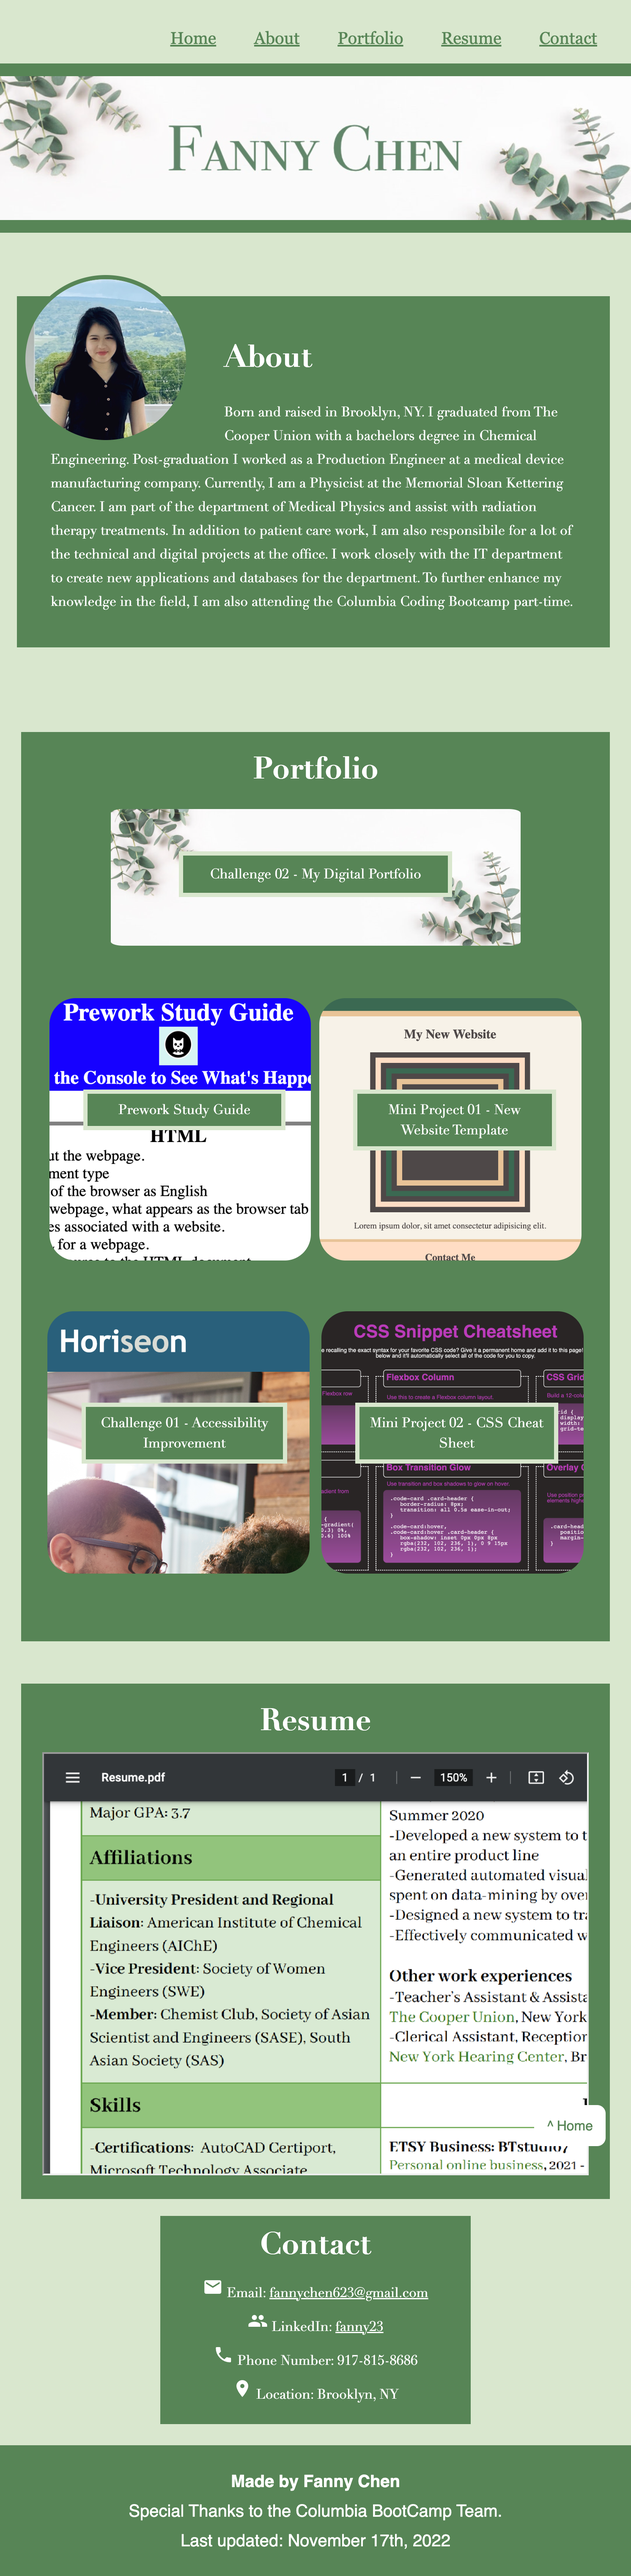
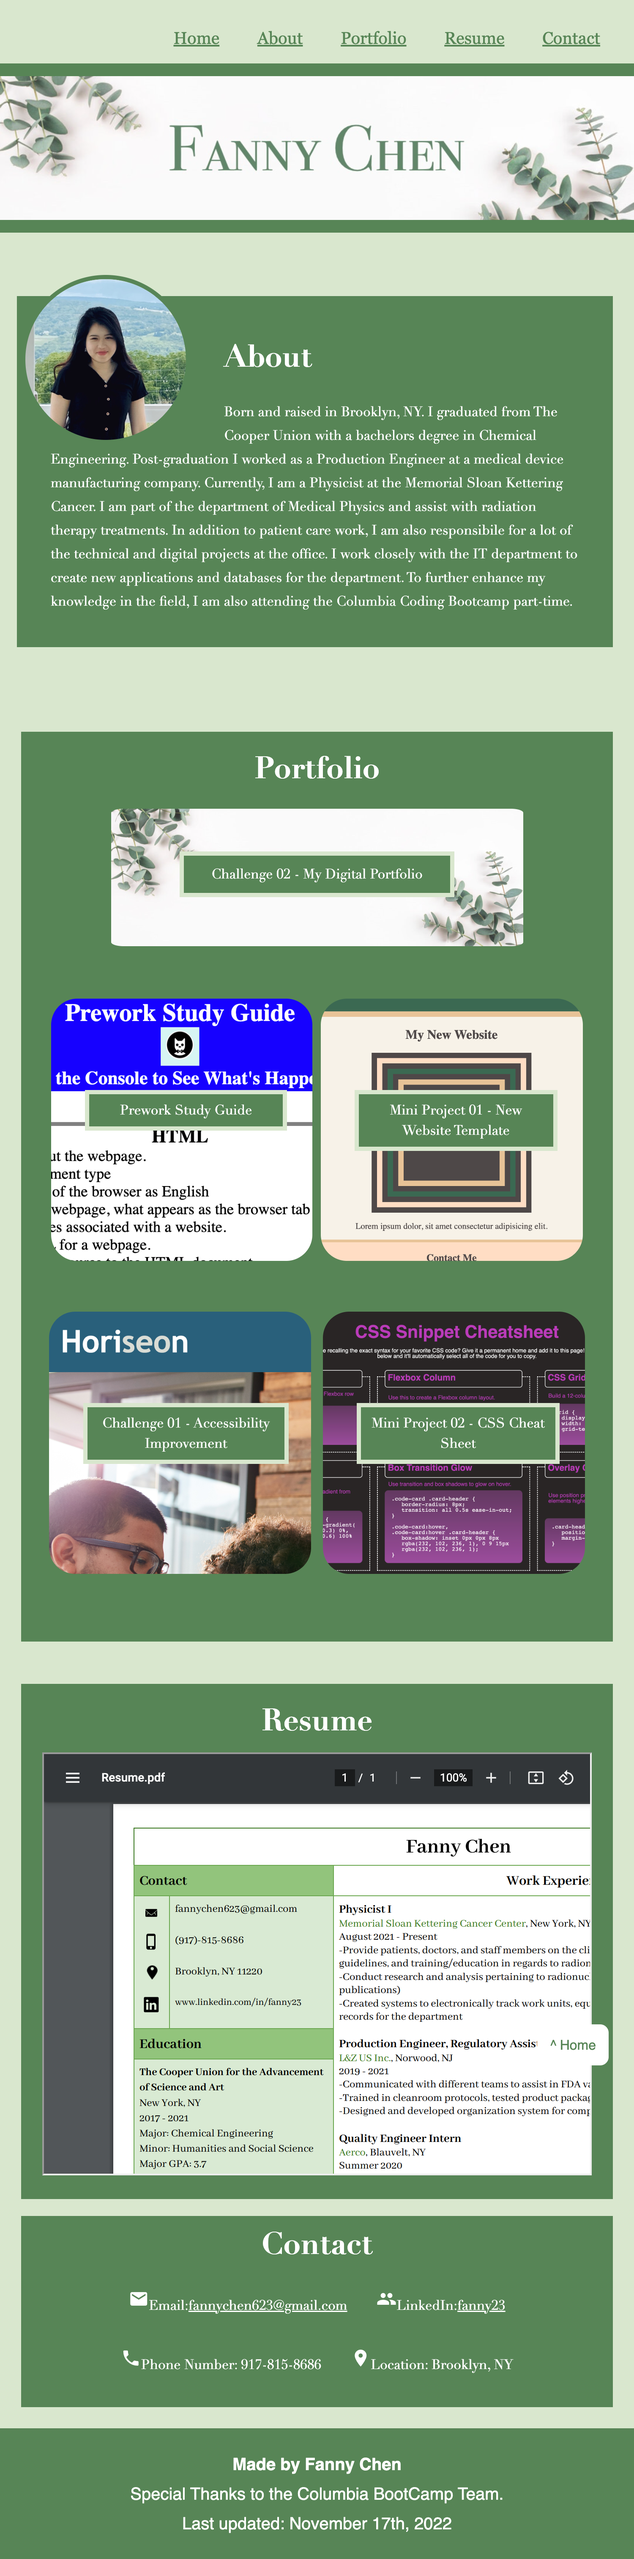
added deployed link to html and README

diff --git a/index.html b/index.html
@@ -44,7 +44,7 @@
           <h1>Portfolio</h1>
           <!-- main project that is focused on the page -->
           <section class="main-project">
-            <a href="https://fannychen623.github.io/module-02-mini-project/"><img src="./assets/images/hero.jpg" alt="Portfolio page" /></a>
+            <a href="https://fannychen623.github.io/Challenge-02-Fanny-Chen-Digital-Portfolio/"><img src="./assets/images/hero.jpg" alt="Portfolio page" /></a>
             <p class="main-caption">Challenge 02 - My Digital Portfolio</p>
           </section>
           <!-- all other projects that wrap with the page -->
@@ -78,10 +78,10 @@
       <section id="contact">
         <h1>Contact</h1>
         <ul>
-          <li><i class="material-icons">email</i> Email: <a href="mailto:fannychen623@gmail.com">fannychen623@gmail.com</a></li>
-          <li><i class="material-icons">people</i> LinkedIn: <a href="https://www.linkedin.com/in/fanny23/">fanny23</a></li>
-          <li><i class="material-icons">phone</i> Phone Number: 917-815-8686</li>
-          <li><i class="material-icons">location_on</i> Location: Brooklyn, NY</li>
+          <li><i class="material-icons">email</i>Email: <a href="mailto:fannychen623@gmail.com">fannychen623@gmail.com</a></li>
+          <li><i class="material-icons">people</i>LinkedIn: <a href="https://www.linkedin.com/in/fanny23/">fanny23</a></li>
+          <li><i class="material-icons">phone</i>Phone Number: 917-815-8686</li>
+          <li><i class="material-icons">location_on</i>Location: Brooklyn, NY</li>
         </ul>
     </section>
     </main>

diff --git a/assets/css/style.css b/assets/css/style.css
@@ -188,6 +188,8 @@ h1 {
 
 #contact ul li {
     line-height: 2.5;
+    padding: 15px;
+    display: inline-flex;
 }
 
 /* footer section */

diff --git a/README.md b/README.md
@@ -1,6 +1,6 @@
 # Module 02 Challenge- Professional Portfolio
 
->**Application Link:** [Fanny Chen Digital Portfolio](https://fannychen623.github.io/Challenge-01-Horiseon-Social-Solution-Services-Inc/)
+>**Application Link:** [Fanny Chen Digital Portfolio](https://fannychen623.github.io/Challenge-02-Fanny-Chen-Digital-Portfolio/)
 >
 >**View:** [Description](#description) / [Portfolio Details](#portfolio-details) / [Responsive Layout Example](#responsive-layout)
 >
@@ -22,7 +22,8 @@
 >
 > Include projects that have active deployed sites.
 >
-> **Note**: Only includes projects completed in this class. Last updated note included in the footer section.
+> **Note**: Only includes projects completed in this class. 
+>Last updated note included in the footer section.
 > Currently do not have any personal projects that are activly deployed on the web.
 ## User Story
 
@@ -92,7 +93,7 @@ THEN I am presented with a responsive layout that adapts to my viewport
   * Set certain `font-size` properties to `auto`.
   * Set certain `width` and `height` properties to `fit-content`.
   * Adjust the layout when the screen size is below 768px.
-    * Stack the items in the navigation bars vertically.
+    * Stack the items in the navigation bars vertically when viewport is too small.
     * Shrink the size of the hero image and the avatar.
     * Move the about section to the left to sit under the avatar.
     * Re-position the captions to the center of each project image.
